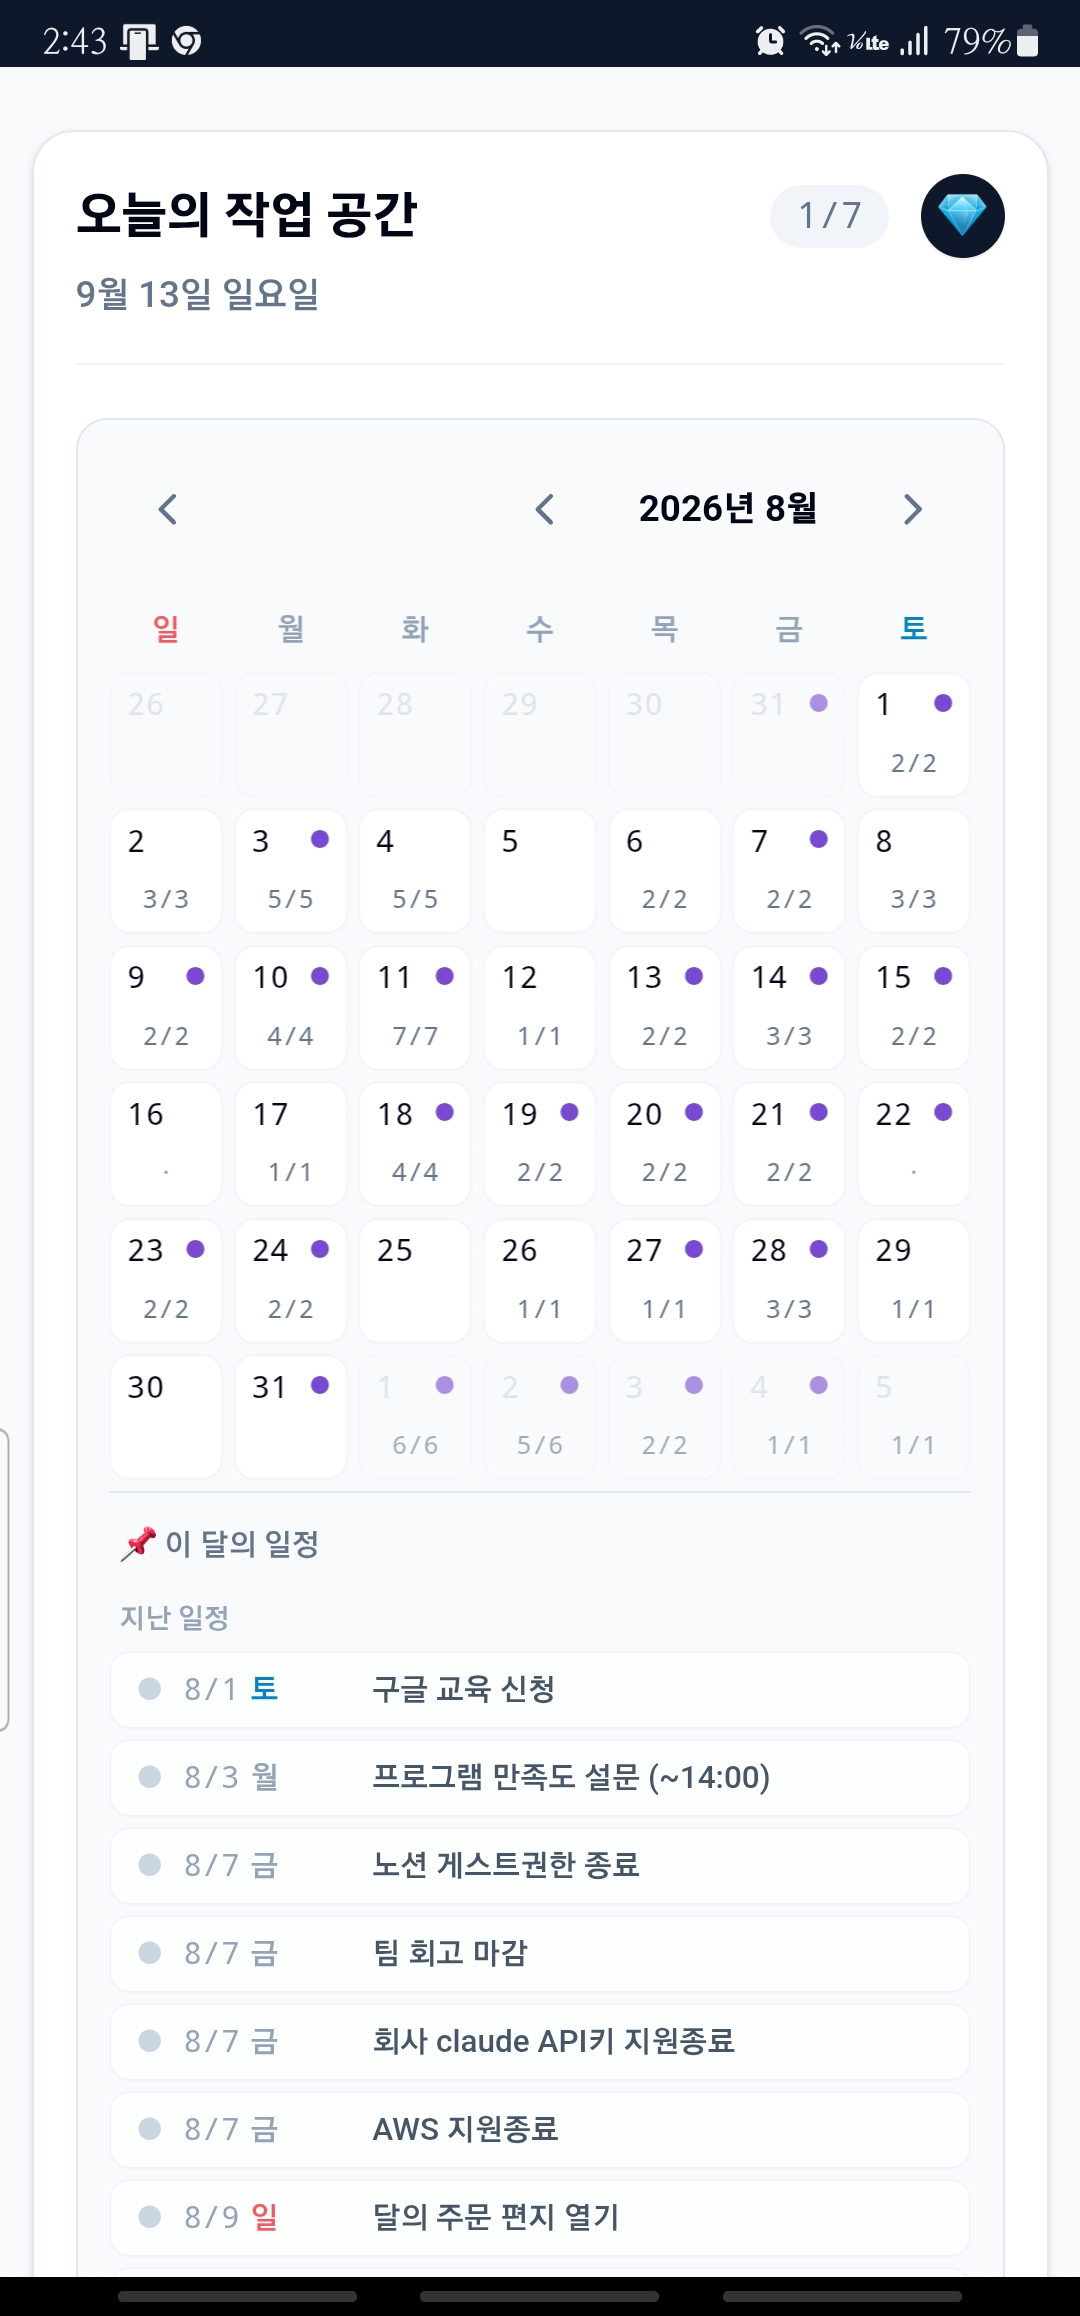
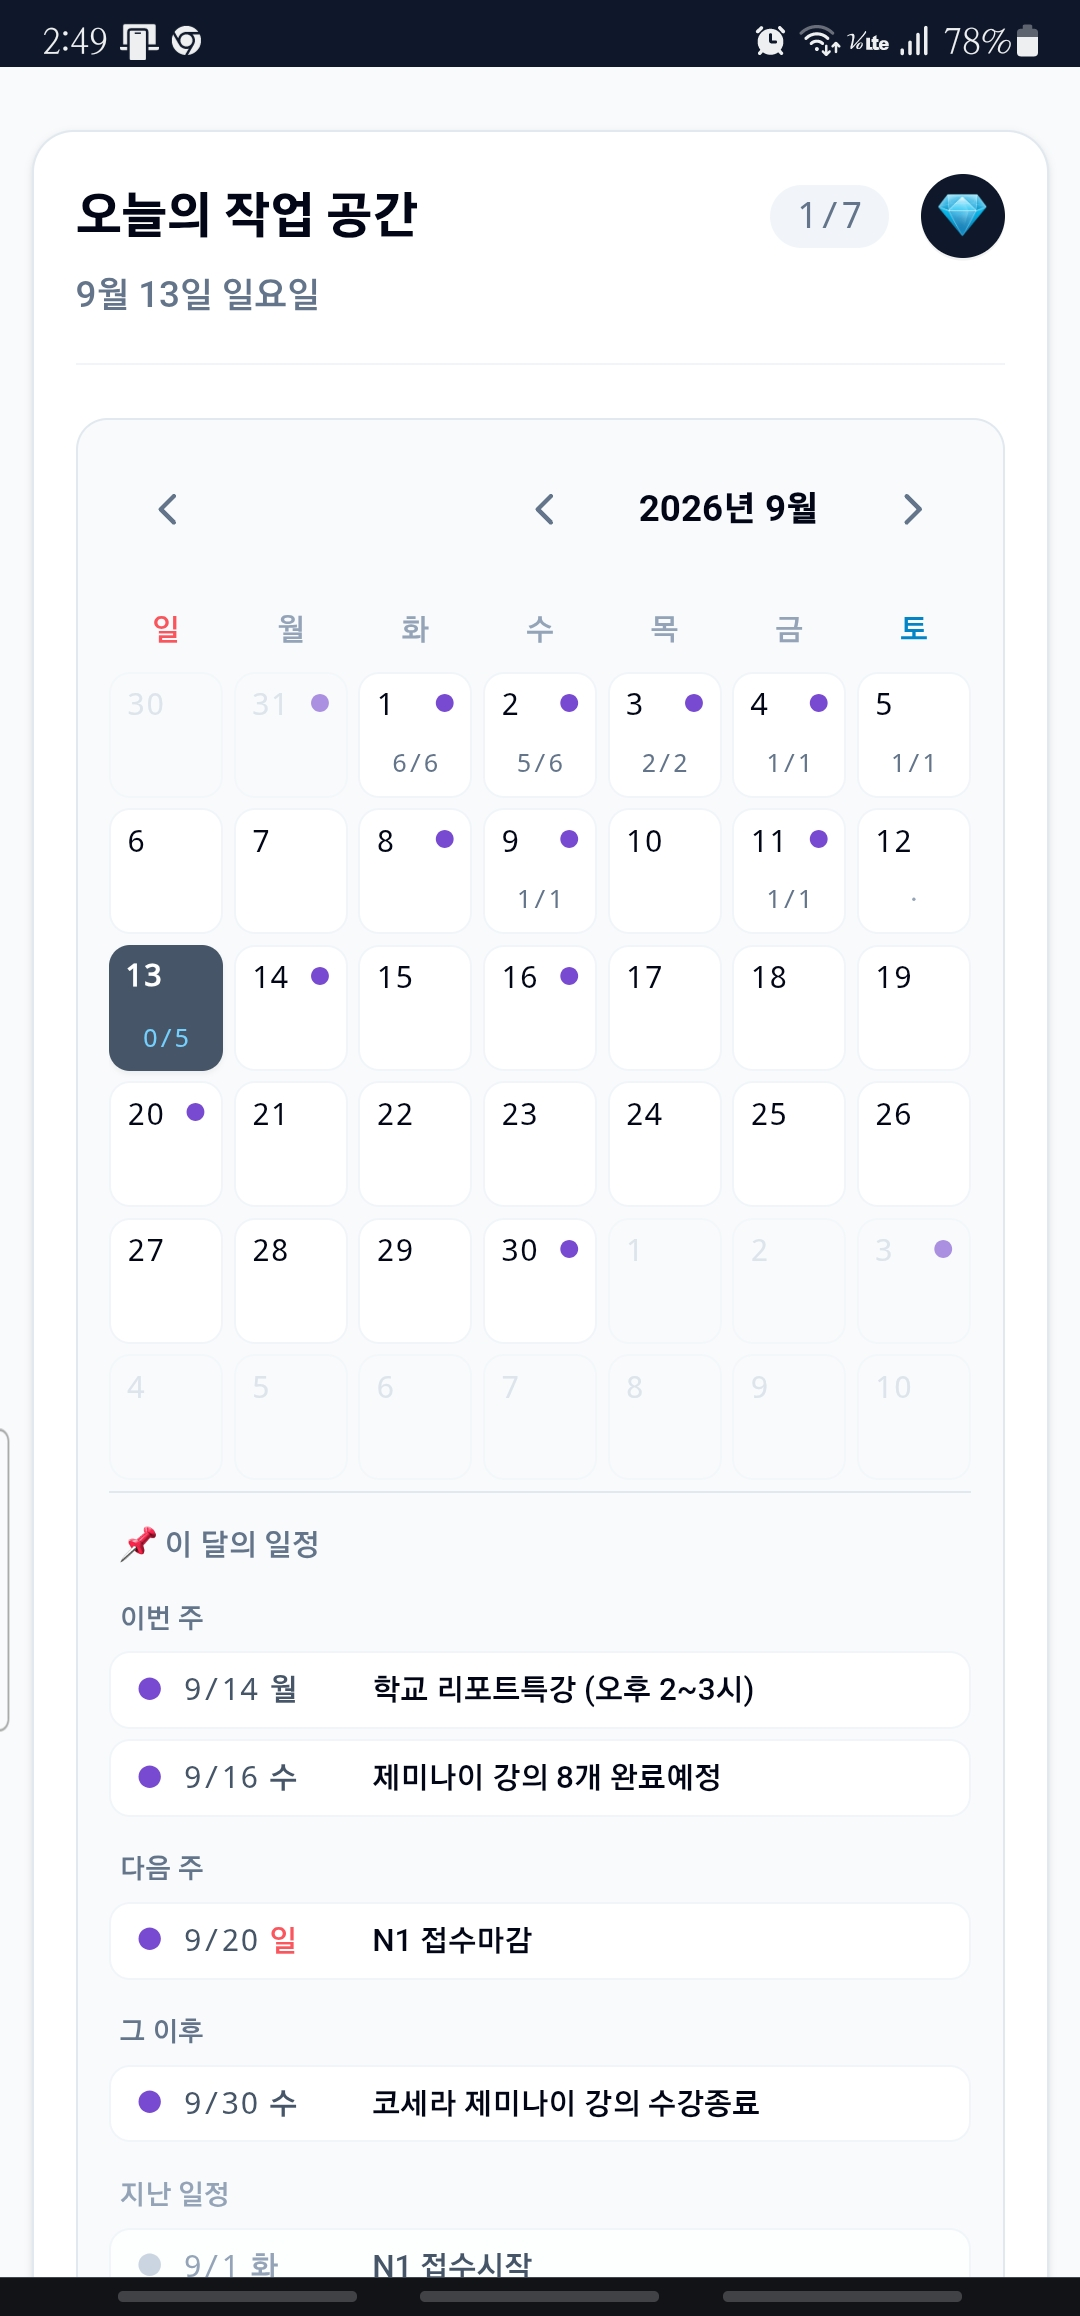
docs: README 이미지 경로를 jpg로 수정

diff --git a/README.md b/README.md
@@ -15,13 +15,13 @@
   <tbody>
     <tr>
       <td align="center">
-        <img src="./docs-assets/month-calendar.png" width="100%" alt="월 달력" />
+        <img src="./docs-assets/month-calendar.jpg" width="100%" alt="월 달력" />
       </td>
       <td align="center">
-        <img src="./docs-assets/weekly-view.png" width="100%" alt="주간 뷰" />
+        <img src="./docs-assets/weekly-view.jpg" width="100%" alt="주간 뷰" />
       </td>
       <td align="center">
-        <img src="./docs-assets/ai-view.png" width="100%" alt="상세 뷰" />
+        <img src="./docs-assets/ai-view.jpg" width="100%" alt="상세 뷰" />
       </td>
     </tr>
   </tbody>
